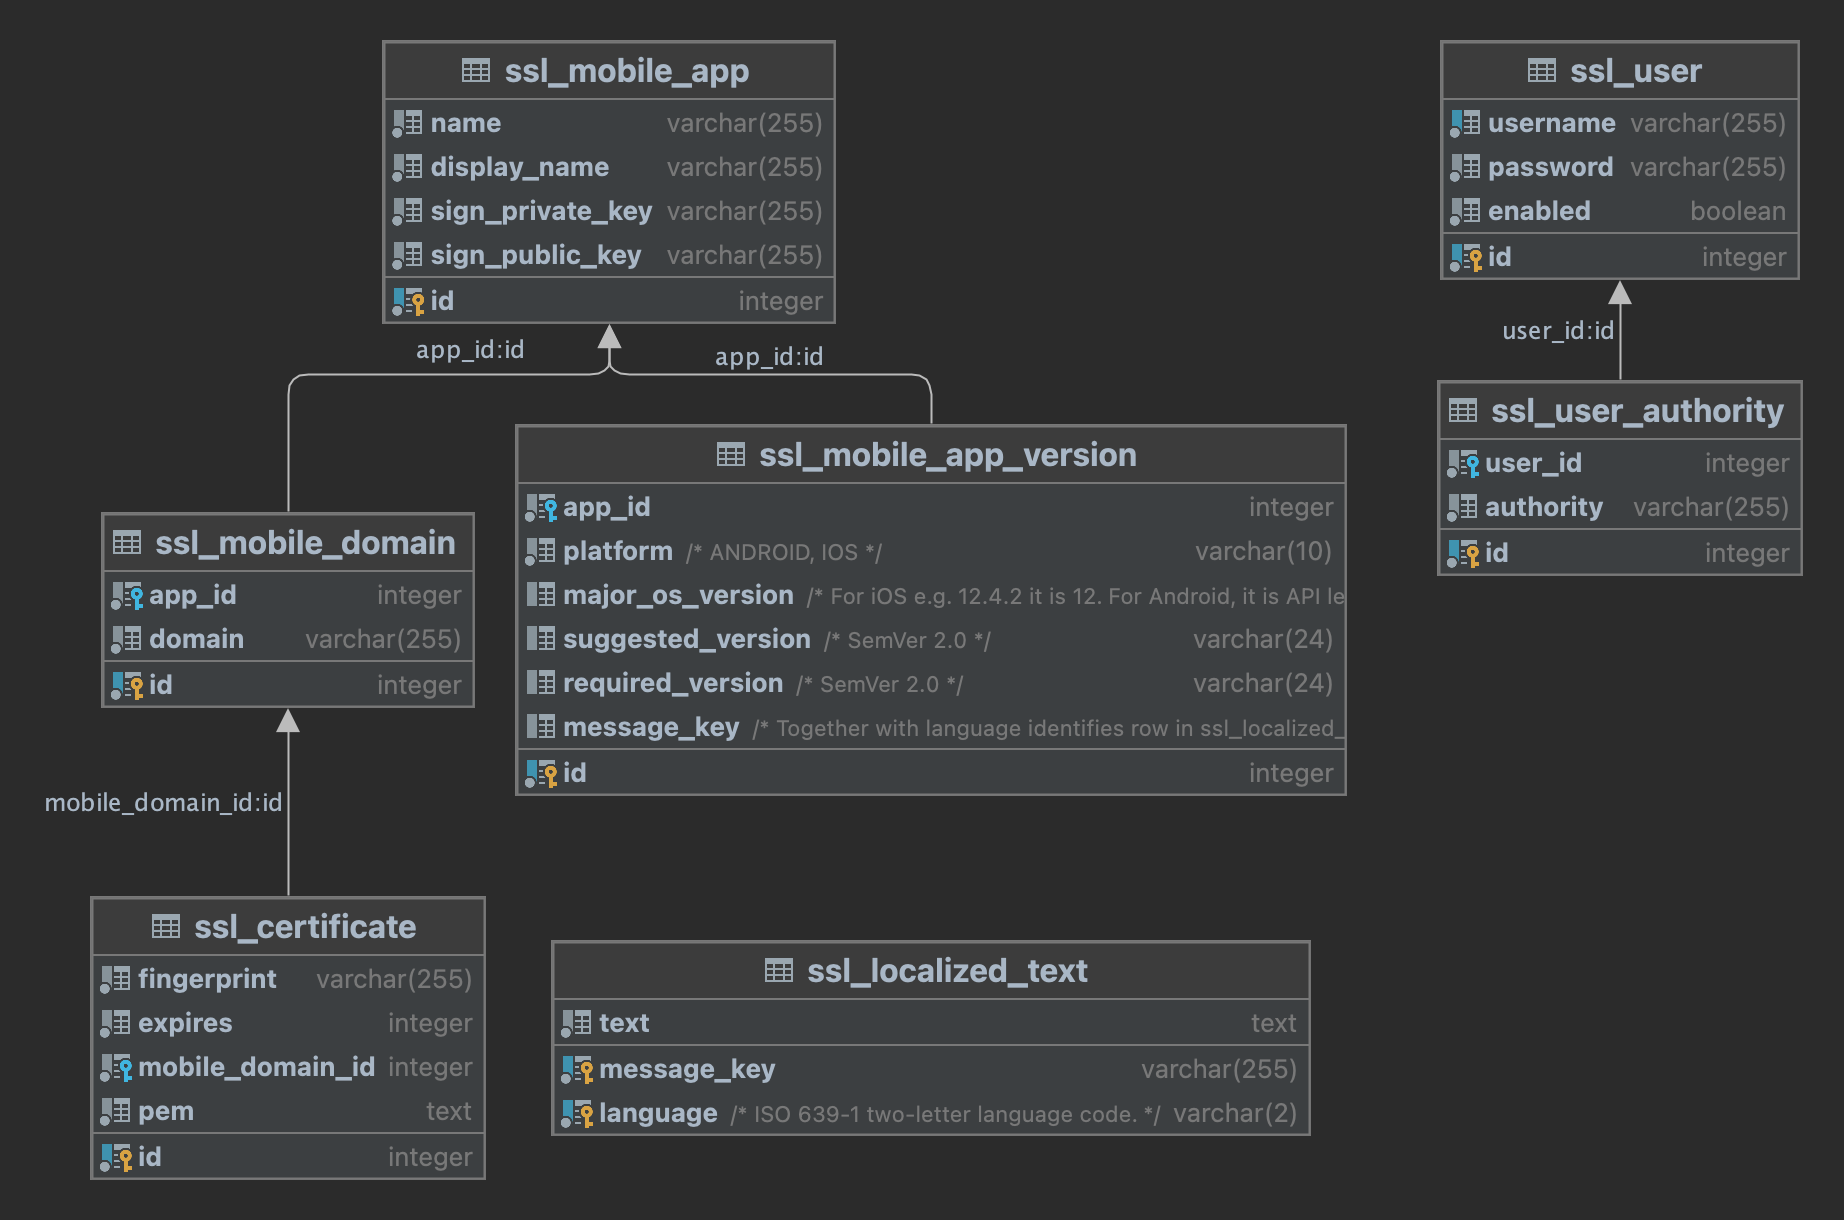
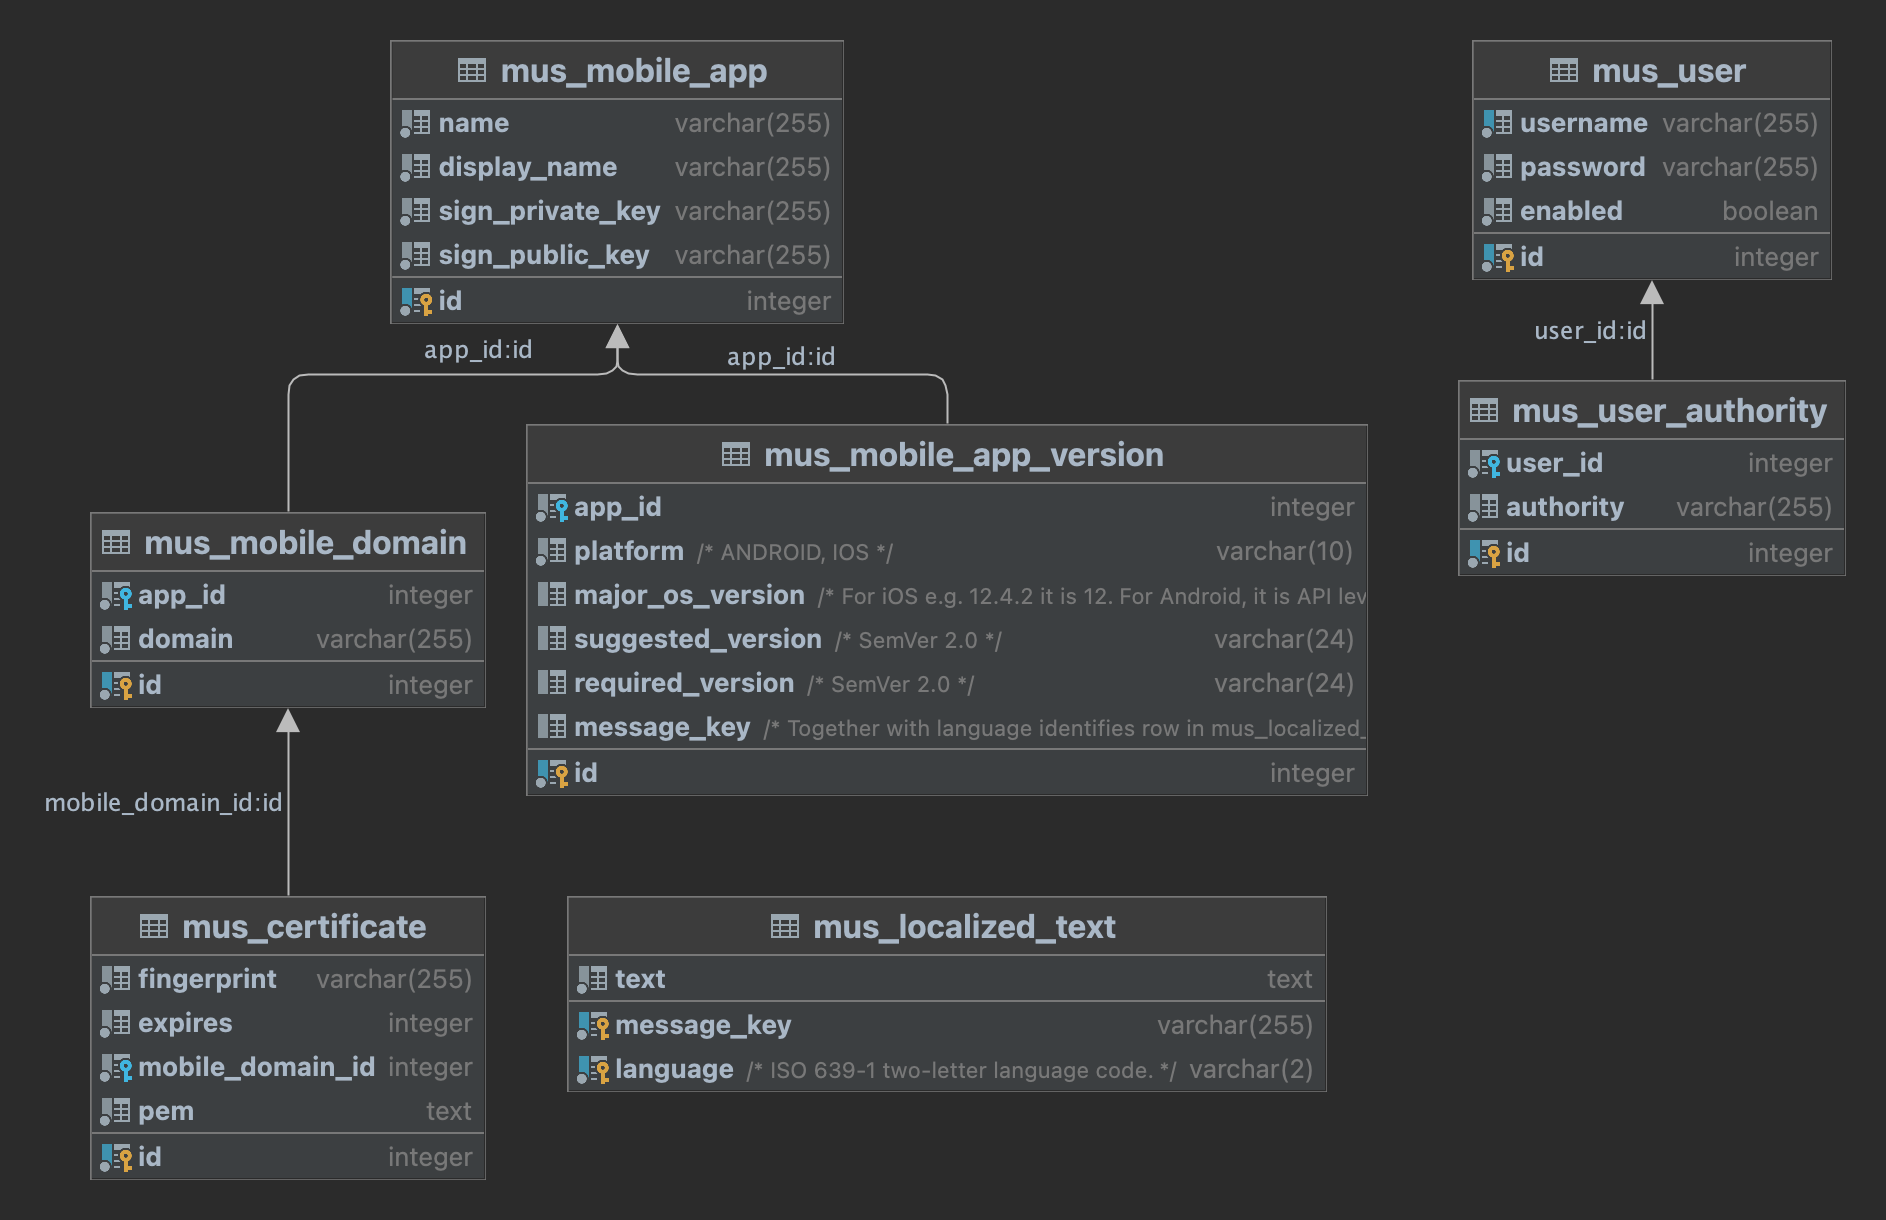
Fix #124: Obsolete database schema diagram (#126)
* Fix #124: Obsolete database schema diagram

diff --git a/docs/Configuration.md b/docs/Configuration.md
@@ -61,7 +61,7 @@ curl --request POST \
 Sometimes it is needed to suggest (or even to force) the client to update the mobile application version.
 It is a part of the response from [Get App Fingerprints](./Public-REST-API.md#get-app-fingerprints).
 
-The rules are store in the [database table ssl_mobile_app_version](./Database-Structure.md#mobile-application-version).
+The rules are store in the [database table mus_mobile_app_version](./Database-Structure.md#mobile-application-version).
 
 The logic is lenient, returning `OK` even if the application version is not configured.
 Otherwise, compare the given application version (respecting the platform) to configured suggested or required version.

diff --git a/docs/Database-Structure.md b/docs/Database-Structure.md
@@ -20,7 +20,7 @@ Contains information related to various mobile apps.
 #### Schema
 
 ```sql
-CREATE TABLE mobile_app (
+CREATE TABLE mus_mobile_app (
     id INTEGER PRIMARY KEY,
     name VARCHAR(255) NOT NULL,
     display_name VARCHAR(255) NOT NULL,
